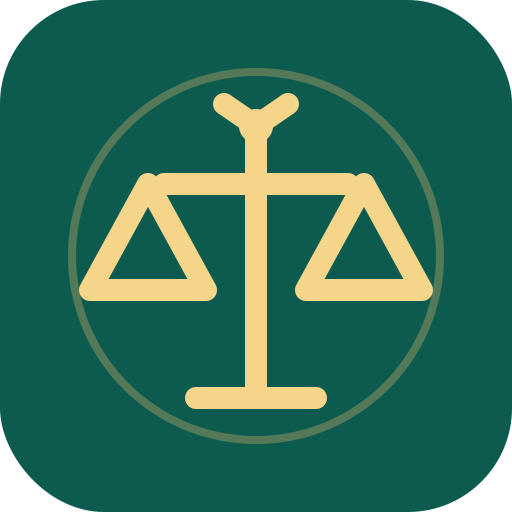
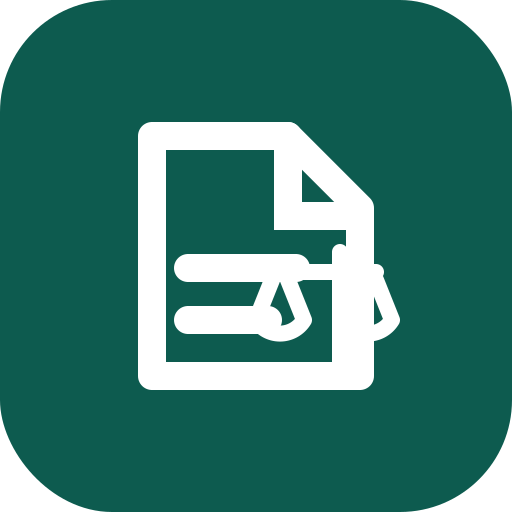
Final PWA installation fix

diff --git a/index.html b/index.html
@@ -4,11 +4,10 @@
 <meta charset="utf-8">
 <meta name="viewport" content="width=device-width,initial-scale=1,viewport-fit=cover">
 <meta name="theme-color" content="#0d5b4f">
+<link rel="manifest" href="manifest.json">
 <meta name="mobile-web-app-capable" content="yes">
 <meta name="apple-mobile-web-app-capable" content="yes">
-<meta name="apple-mobile-web-app-status-bar-style" content="default">
-<meta name="application-name" content="Law Guide">
-<link rel="manifest" href="manifest.webmanifest">
+<meta name="apple-mobile-web-app-title" content="Law Guide">
 <link rel="icon" href="icon-192.png" type="image/png">
 <link rel="apple-touch-icon" href="icon-192.png">
 <meta name="description" content="Law Guide — منصة معلوماتية مستقلة لتبسيط الإجراءات القانونية والإدارية في الجزائر.">
@@ -231,7 +230,7 @@ function openSaved(title){var p=allProcedures.find(function(x){return x.title===
 renderApp();
 </script>
 <script>
-if('serviceWorker' in navigator){window.addEventListener('load',function(){navigator.serviceWorker.register('./sw.js').then(function(r){r.update();}).catch(function(){});});}
 </script>
+<script>if("serviceWorker" in navigator){window.addEventListener("load",()=>navigator.serviceWorker.register("/Law-Guide/sw.js",{scope:"/Law-Guide/"}).catch(()=>{}));}</script>
 </body>
 </html>
